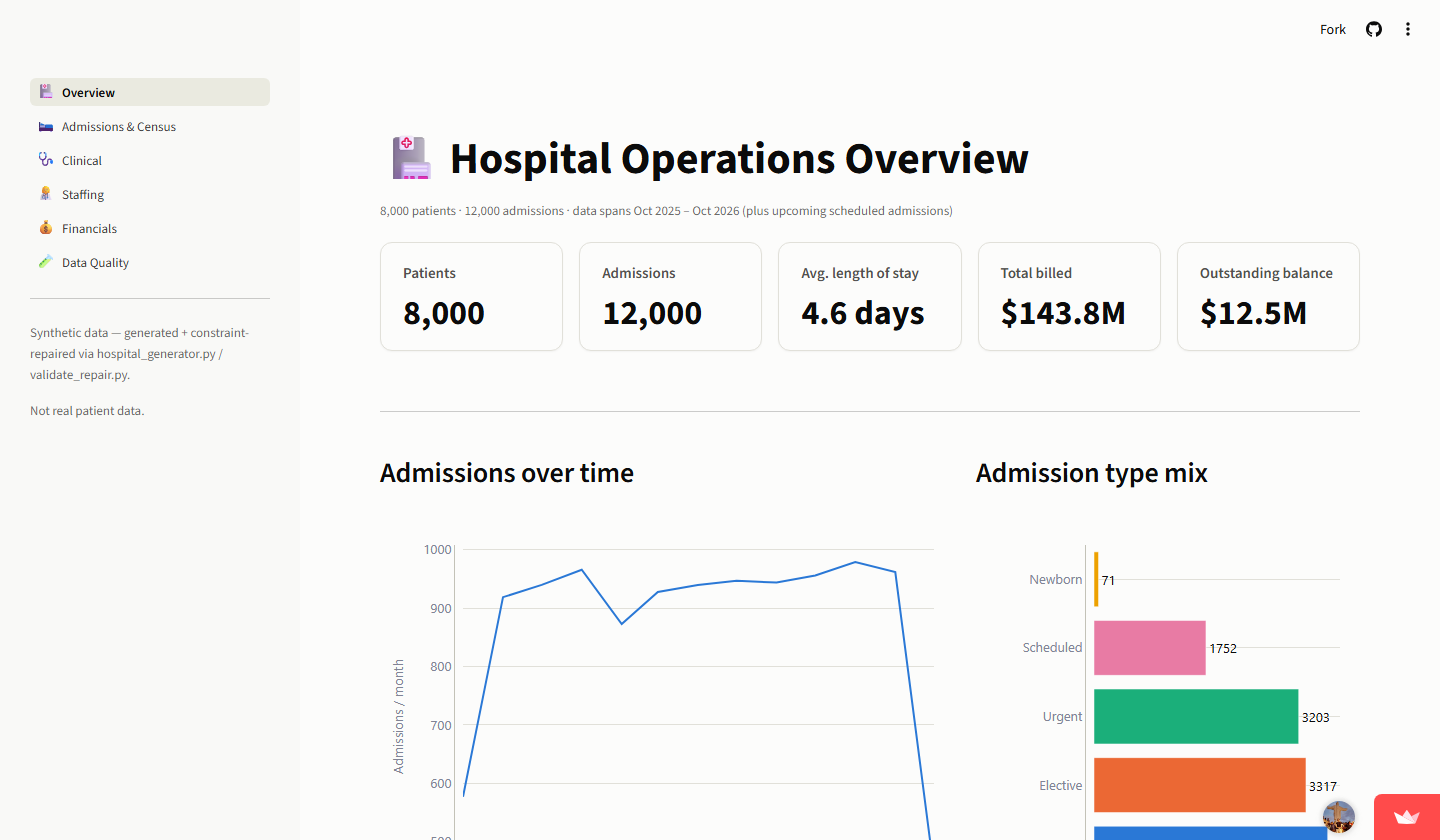
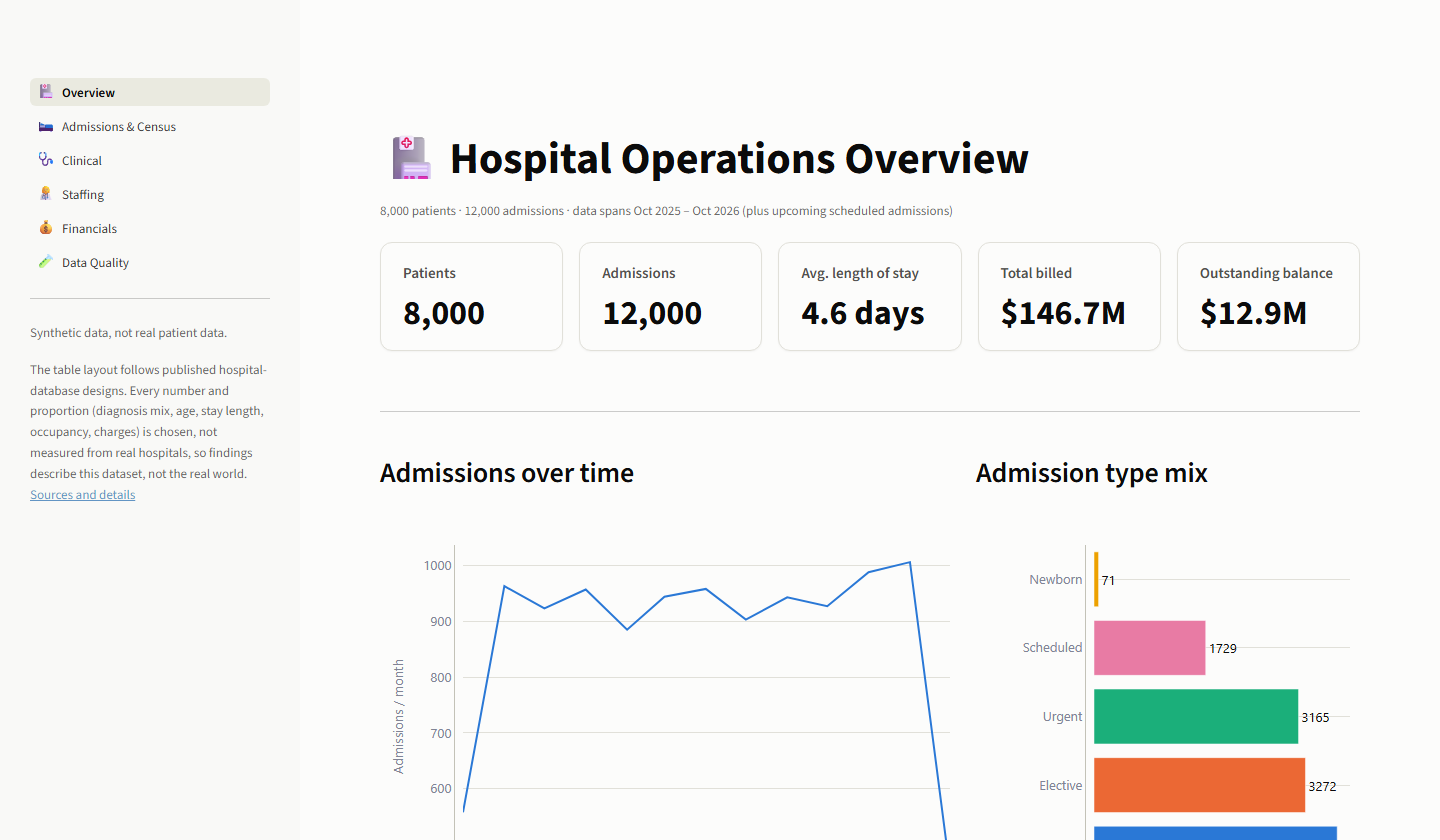
Docs: retake the Overview and Data Quality screenshots (new data, 71 -> 0); soften one intro sentence
The screenshots show the current build: $146.7M billed, 59 checks, 71 violations before
repair and 0 after, and the sidebar note on what is sourced and what is chosen. The Data
Quality intro no longer says groups 7 and 8 were "deliberately not designed around"; they
were written without reference to the generator, which was then fixed until they passed.

diff --git a/app/views/data_quality.py b/app/views/data_quality.py
@@ -126,9 +126,9 @@ st.markdown(
     "The generator is built to avoid violations in the first place; a repair step then fixes whatever "
     "slips through. **Before repair** is what the generator itself produced; **after repair** is what "
     "is left in the dataset behind this dashboard. Groups 1–6 were written alongside the generator. "
-    "**Groups 7 and 8 were added afterwards and deliberately not designed around** — they only report, "
-    "because repairing e.g. a bill line that points at the wrong patient's procedure would mean "
-    "inventing data."
+    "**Groups 7 and 8 were added afterwards, written without reference to the generator, which was then "
+    "fixed until they passed.** They only report, because repairing e.g. a bill line that points at the "
+    "wrong patient's procedure would mean inventing data."
 )
 st.divider()
 
